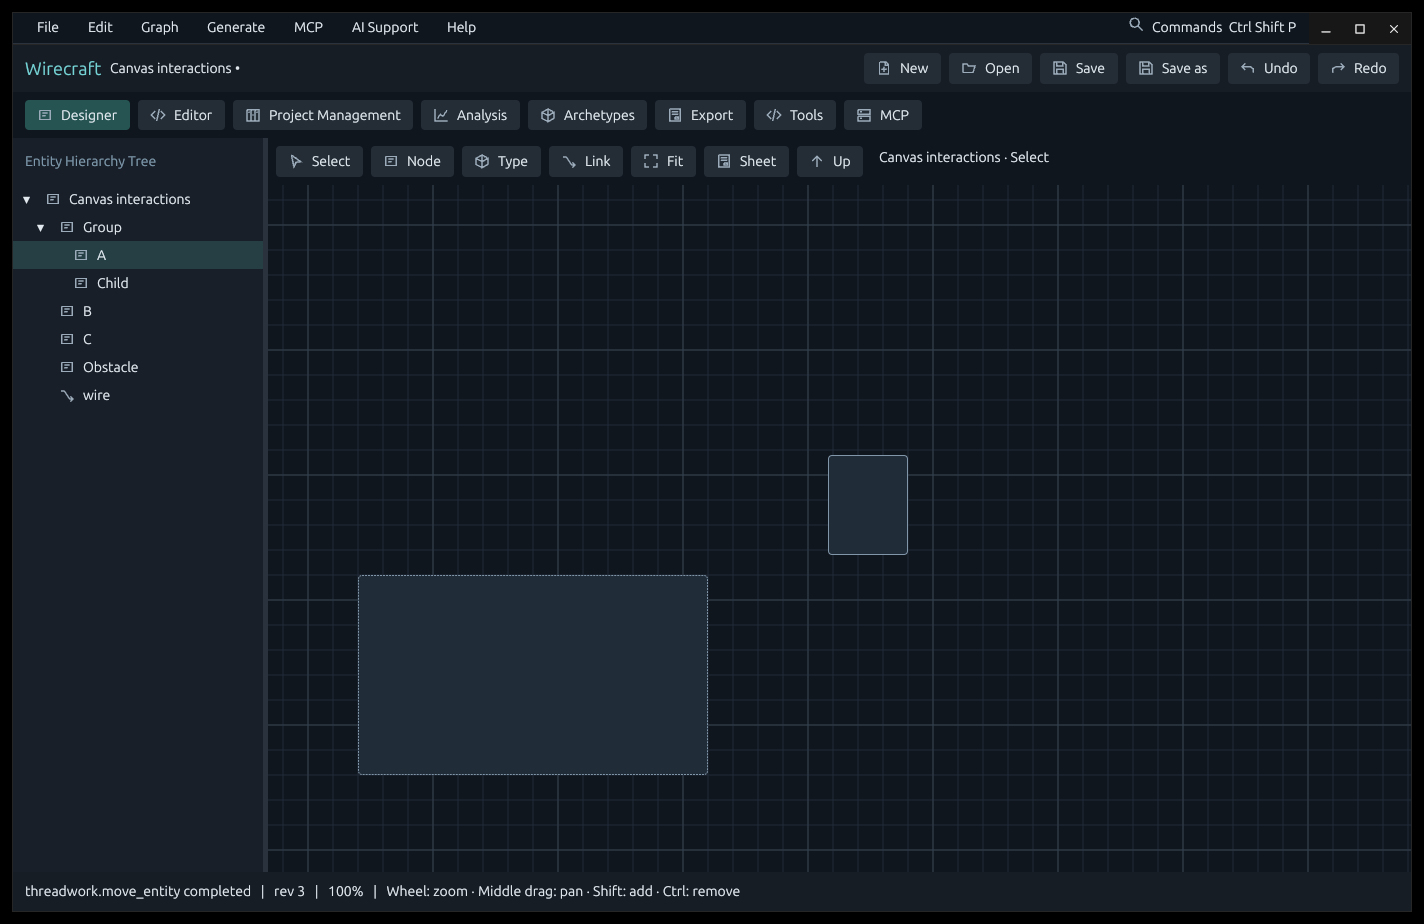
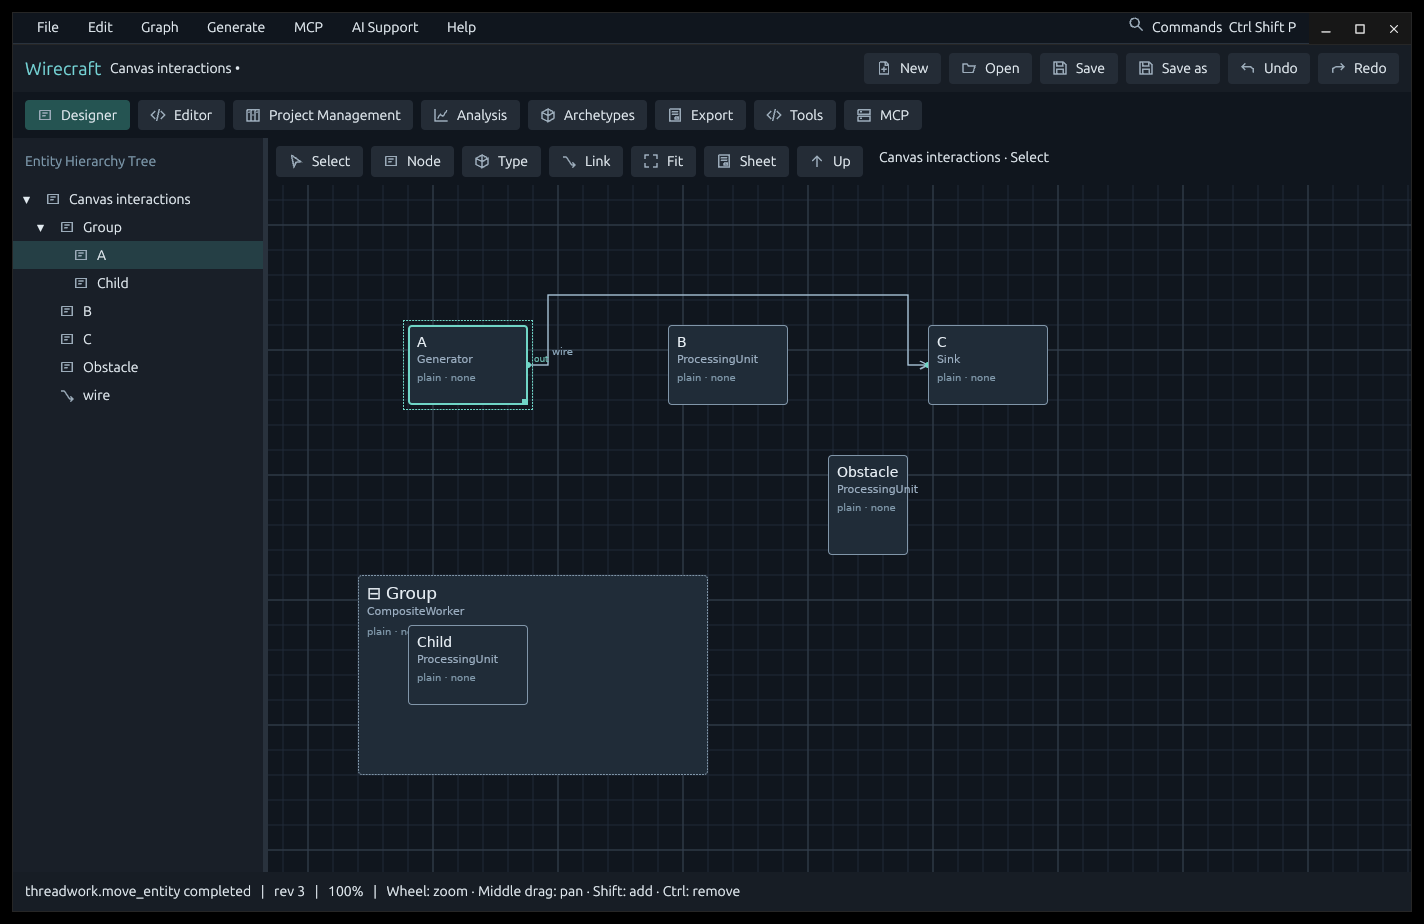
docs(release): record draft-safe 0.4.1 package verification

diff --git a/docs/migration/status.md b/docs/migration/status.md
@@ -42,4 +42,4 @@ The optimized 0.4.0 package/install/native checkpoint is verified; evidence is u
 
 Wheel zoom anchors at the cursor; middle/right drag pans. Left-to-right windows enclose objects and right-to-left windows include intersections. Shift adds, Control removes, and unmodified clicks replace. Tree press selects before dragging; full-width drop targets reparent through the same backend service. Canvas/tree highlights and a whole-selection contour stay synchronized, including collapsed ancestor projection. Selected groups/subtrees follow the pointer and commit in one revision-checked undo step. Routing runs after an 80 ms quiet interval on a background executor, with bounded work and stale-result guards.
 
-The dedicated native canvas suite passed all gestures, outside-canvas release, empty selection, group movement, overlapping composite/child selection without double movement, reparenting and cycle rejection. It asserts no backend mutation during a paused drag preview. Geometry/unit coverage includes segment crossing, containment, modifier algebra, zoom clamps, projected selection and bounds, culling at preview positions and retaining completed obstacle detours. Optimized package/install/MCP/compiler/clangd checks and all four installed native suites passed. Evidence and binary hashes are under evidence/v0.4.1. The first interaction commit passed remote Ubuntu CI; the final culling/detour correction CI run is still in progress. Prior 0.4.0 evidence remains valid for its recorded binary checkpoint. Compiler parity gaps above remain unchanged.
+The dedicated native canvas suite passed all gestures, outside-canvas release, empty selection, group movement, overlapping composite/child selection without double movement, reparenting and cycle rejection. It asserts no backend mutation during a paused drag preview, and panning preserves staged editor drafts. Geometry/unit coverage includes segment crossing, containment, modifier algebra, zoom clamps, projected selection and bounds, culling at preview positions and retaining completed obstacle detours. Optimized package/install/MCP/compiler/clangd checks and all four installed native suites passed. Evidence and binary hashes are under evidence/v0.4.1. The interaction and culling/detour code passed remote Ubuntu CI; the last draft-preservation fix CI run is still in progress. Prior 0.4.0 evidence remains valid for its recorded binary checkpoint. Compiler parity gaps above remain unchanged.

diff --git a/docs/migration/evidence/v0.4.1/README.md b/docs/migration/evidence/v0.4.1/README.md
@@ -6,6 +6,6 @@ These captures come from the installed optimized package on an owned window with
 - drag-rerouted-preview.png: a group follows the pointer while the backend revision and saved layout remain unchanged; routing has had time to run in the background.
 - tree-reparented.png: a tree drag changes the real hierarchy through the shared service.
 
-All 61 Rust tests, formatting, strict Clippy, installed backend/MCP/compiler/clangd checks and all four native suites passed. The canvas suite additionally checks pointer-anchored wheel zoom, middle-button pan and release outside the canvas, both window directions, additive/subtractive/replacement selection, one-step group undo, deduplicated descendant movement, tree reparenting and rejected cycles. Unit tests check that the completed obstacle detour survives the preview path and that translated primitives remain culled.
+All 61 Rust tests, formatting, strict Clippy, installed backend/MCP/compiler/clangd checks and all four native suites passed. The canvas suite additionally checks pointer-anchored wheel zoom, middle-button pan and release outside the canvas, both window directions, additive/subtractive/replacement selection, one-step group undo, deduplicated descendant movement, tree reparenting, rejected cycles and preserving a staged editor draft when panning. Unit tests check that the completed obstacle detour survives the preview path and that translated primitives remain culled.
 
 See verification.json for code and binary hashes, exact suite results and CI observations; the final remote CI run was still in progress when recorded. The [gesture contract](../../canvas-interactions.md) documents the controls and implementation boundaries. Available-platform evidence is Linux only.
